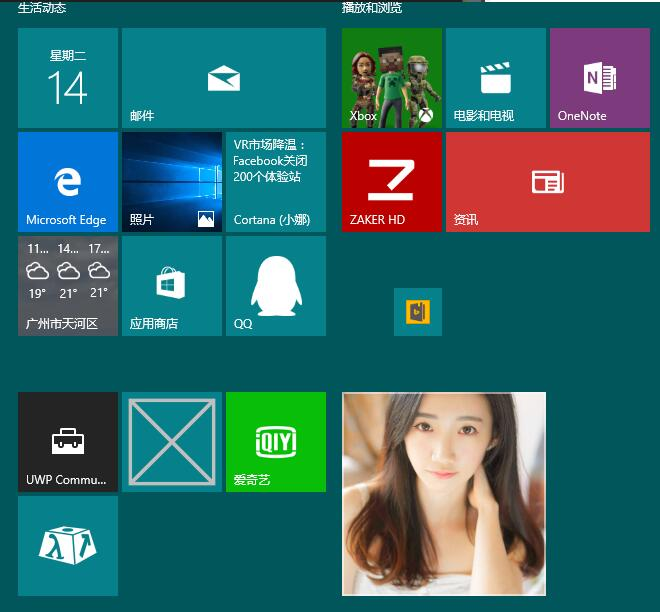
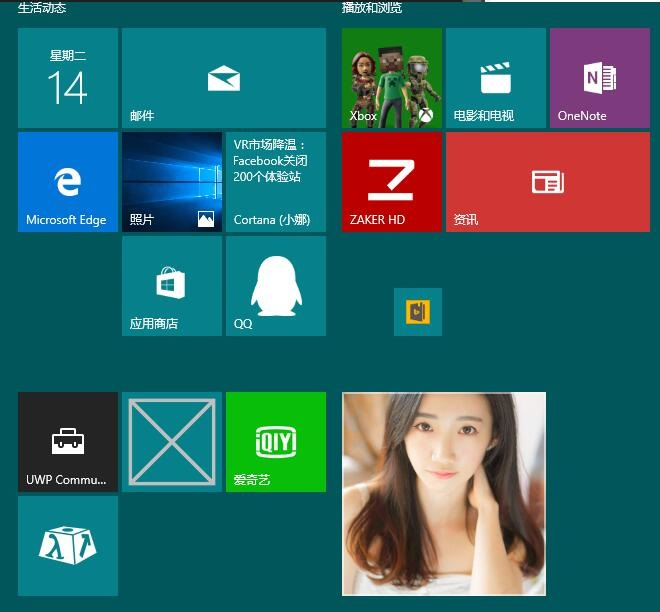
add tile page

Changed region(s): [[0.0303, 0.3725, 0.1818, 0.5588]]

diff --git a/README.md b/README.md
@@ -56,7 +56,7 @@ Gank.UWP为 [gank.io](http://gank.io/) 的**UWP**版第三方客户端。❣
 
   ![tile1](imgs/tile1.jpg) 
 
-  ![tile3](imgs/tile3.jpg) ![tile2](imgs/tile2.jpg) 
+  ![tile3](imgs/tile3.jpg) ![tile2](imgs/tile2.jpg) ![tile5](imgs/tile5.jpg) ![tile6](imgs/tile6.jpg) 
 
 - 小娜
 
